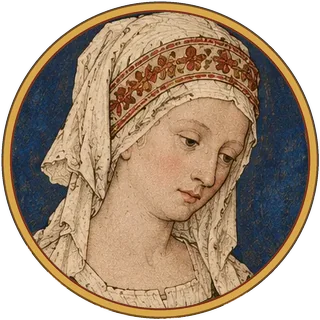
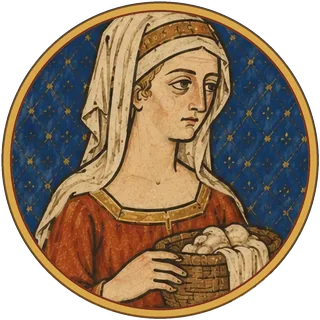
Портреты: вся серия в стиле готических рукописей XIII века
24 медальона (крестьяне, горожане, власти, духовенство, ремесленники,
стража, корабельщик); скрипт нарезки — tools/portraits.py.

Claude-Session: https://claude.ai/code/session_01MqgnySWfdMW4H8wgNmTMfN

diff --git a/js/windows.js b/js/windows.js
@@ -56,9 +56,9 @@ const cap = s => s ? s[0].toUpperCase() + s.slice(1) : s;
 
 // Варианты на роль; кому какой — по имени, чтобы соседи не были на одно лицо.
 const PORTRAITS = {
-  peasant_m: ['peasant_m1', 'peasant_m2'],
-  peasant_f: ['peasant_f1', 'peasant_f2'],
-  town_m: ['town_m1', 'town_m2', 'town_m3'],
+  peasant_m: ['peasant_m1', 'peasant_m2', 'peasant_m3'],
+  peasant_f: ['peasant_f1', 'peasant_f2', 'peasant_f3'],
+  town_m: ['town_m1', 'town_m2'],
   town_f: ['town_f1', 'town_f2', 'town_f3'],
 };
 
@@ -70,9 +70,9 @@ function npcPortrait(npc) {
   if (r === 'guard') return 'guard';
   if (r === 'smith') return 'smith';
   if (r === 'boatman') return 'boatman';
-  if (r === 'merchant') return f ? 'scribe' : 'merchant';
-  if (r === 'innkeeper') return f ? 'scribe' : 'innkeeper';
-  if (r === 'herbalist') return 'scribe';
+  if (r === 'merchant') return f ? 'town_f3' : 'merchant';              // купчиха — в богатом уборе
+  if (r === 'innkeeper') return f ? 'town_f1' : 'town_m1';              // хозяйка с хлебом, хозяин со счётом
+  if (r === 'herbalist') return 'town_f2';                               // травница с травником-книгой
   if (r === 'hermit') return 'pilgrim';
   if (r === 'priest') return /Имам/.test(t) ? null : /Капеллан/.test(t) || place.kind === 'castle' ? 'chaplain' : 'priest';
   if (r === 'elder') {
@@ -82,9 +82,9 @@ function npcPortrait(npc) {
     return 'podesta';                       // подеста, байюл, ректор, куратор, наместник
   }
   if (r === 'peasant') {
-    if (!f && place.kind === 'inn') return 'pilgrim';                      // путник на постоялом дворе
+    if (!f && place.kind === 'inn') return 'pilgrim';                    // путник на постоялом дворе
     if (place.kind === 'village') return pick(f ? PORTRAITS.peasant_f : PORTRAITS.peasant_m);
-    return pick(f ? PORTRAITS.town_f : PORTRAITS.town_m);                  // горожане, люди при замке
+    return pick(f ? PORTRAITS.town_f : PORTRAITS.town_m);                // горожане, люди при замке
   }
   return null;
 }

diff --git a/README.md b/README.md
@@ -248,9 +248,9 @@ npm test
 Снизу — журнал сообщений с прокруткой и вся история, рядом — кнопки действий с клавишами.
 
 Окна — оформленные, поверх карты, и всё в них работает и мышью, и клавишами:
-- **диалог** — портрет жителя (миниатюры в духе рукописей для каждой роли: консул, подеста,
-  кастелян, староста, священник, капеллан, аббат, монахи, купец, трактирщик, кузнец, корабельщик,
-  стражник, путник, крестьяне и горожане в нескольких вариантах), реплика и варианты ответа кнопками;
+- **диалог** — портрет жителя (миниатюры в духе готических рукописей XIII века: медальоны на
+  синем и красном фоне с сеткой; для каждой роли, крестьяне и горожане в нескольких вариантах),
+  реплика и варианты ответа кнопками;
 - **котомка** — фигура героя со слотами, мешок, товары, трофеи и поклажа; карточка предмета
   со сравнением с надетым («+2 урон, −1 уклонение»); двойной клик — надеть;
 - **торговля** — две колонки, цвет цены (выгодно / обычно / дорого), кнопки «купить», «продать», «всё»;
